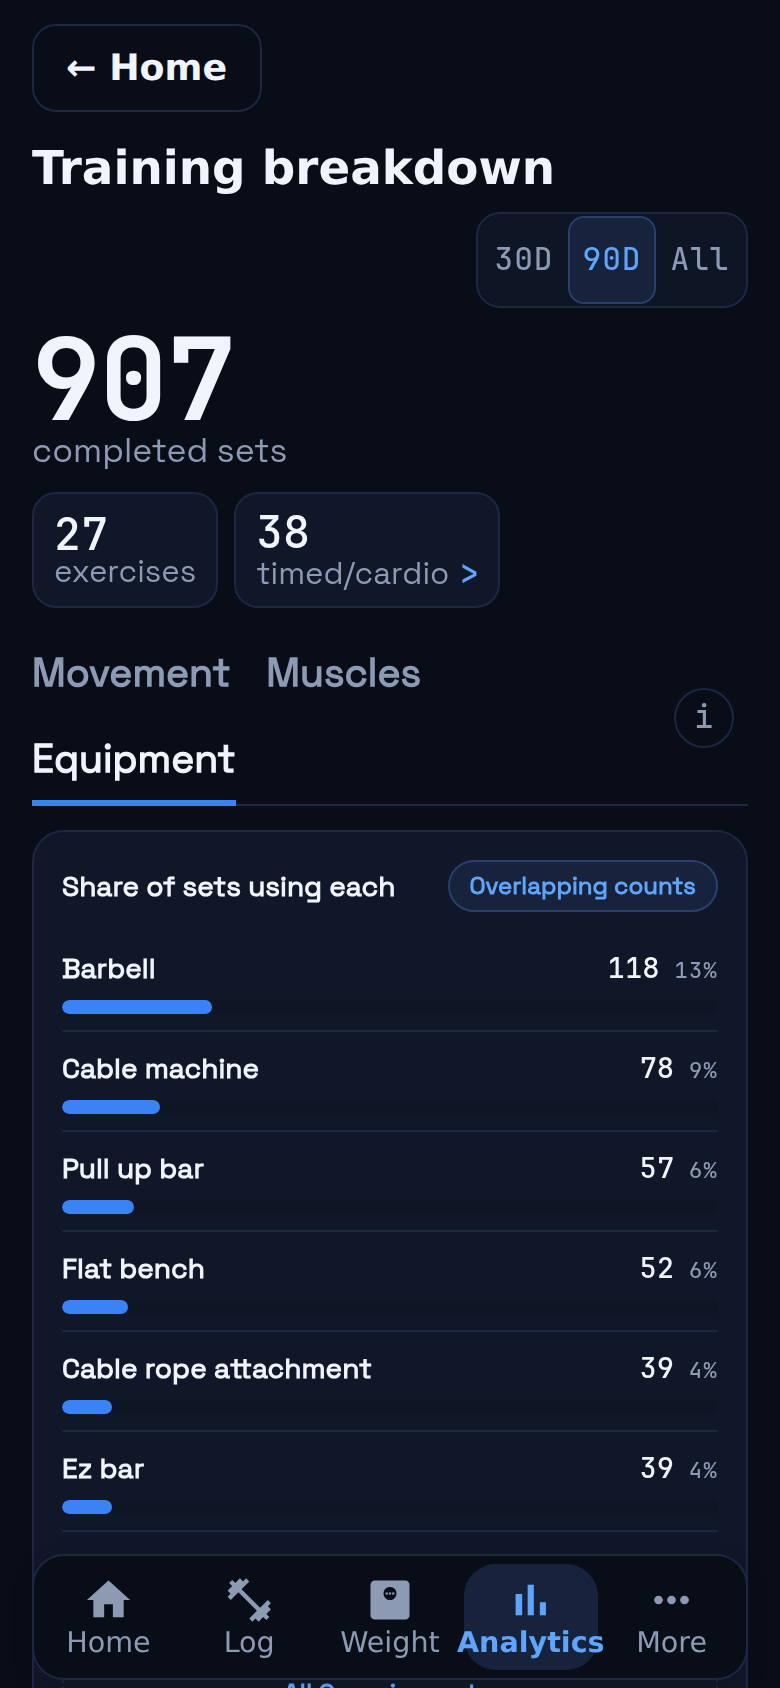
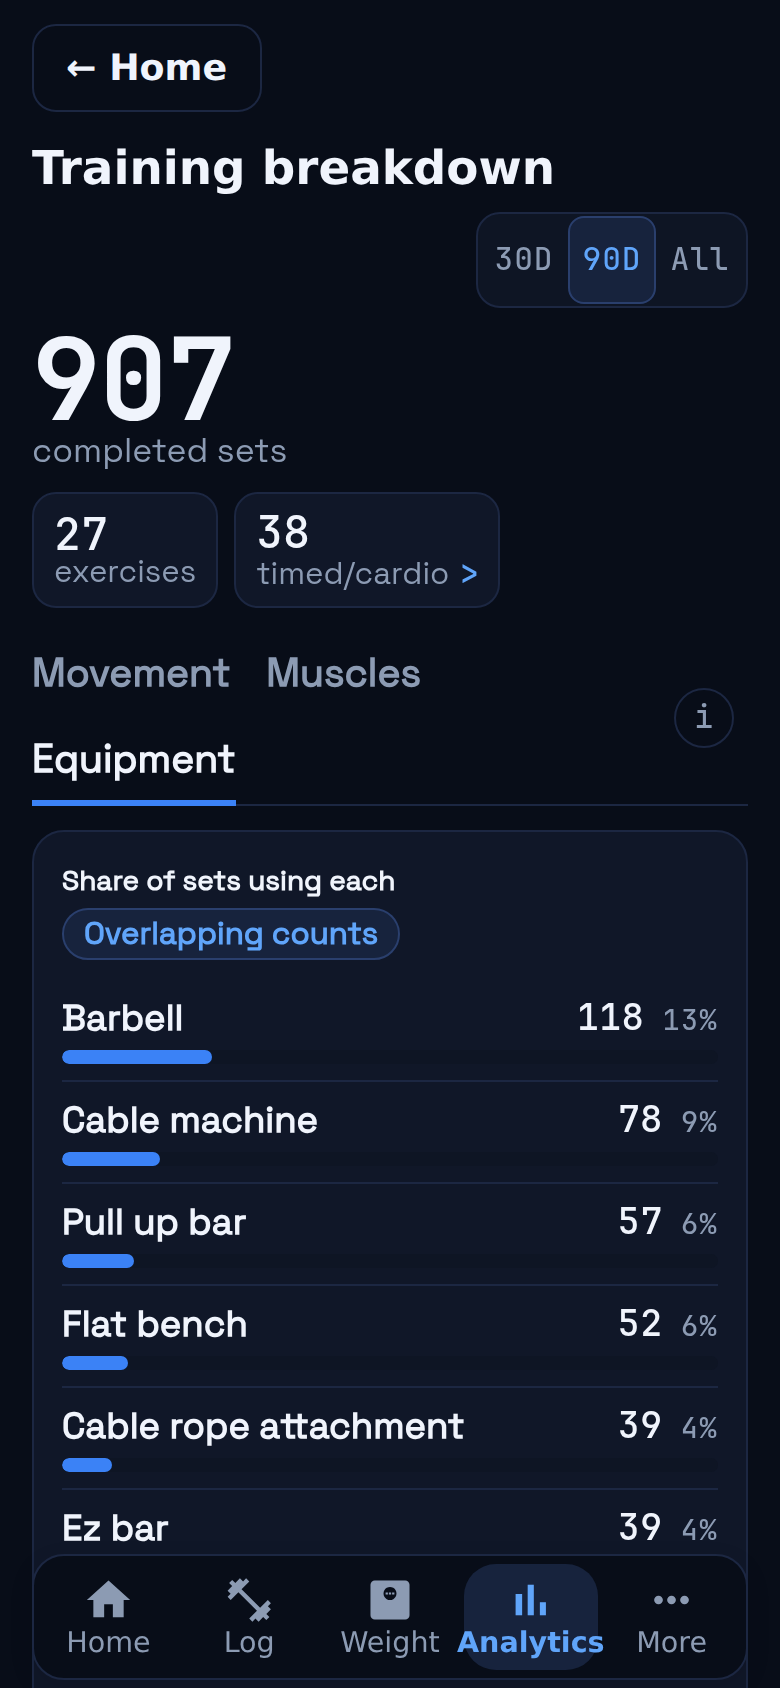
Scale large-text evidence after the target view mounts (#1593)

Changed region(s): [[0.0615, 0.4929, 0.6154, 0.9242], [0.6154, 0.5237, 0.9231, 0.9242], [0.3692, 0.9858, 0.4, 1.0]]

diff --git a/docs/evidence/1593-training-breakdown-polish/README.md b/docs/evidence/1593-training-breakdown-polish/README.md
@@ -22,7 +22,7 @@ node capture.cjs <dist> <before|after> [<playwright node_modules dir>] [<chromiu
 - **Default** (Equipment, All equipment, Muscles, Pecs, large text): reproduces the reported data exactly — 907 completed sets, Unknown equipment **519 / 57%**, Barbell 118 / 13%, Cable machine 78 / 9%; regions Chest 52, Back 162, Shoulders 130, Arms 96, Legs 275, Core 57.
 - **Unclassified-dominant** (All movement groups): default fixture plus two unrecognised exercises ("Mystery Sled Thing", "Odd Machine Move", 6 sets every 2 days) → 1447 sets, Unclassified **627 / 43%**, largest classified group Squat 104, saved-choice group "Pull ✎" 12. The sheet is scrolled to its Unclassified row.
 
-Every capture reported `overflowX: false` and no Training-breakdown button below 44×44.
+Large-text shots scale every text node after the target view/sheet has mounted (fixed after review; earlier captures scaled before the view switch). Every capture reported `overflowX: false` and no Training-breakdown button below 44×44.
 
 ## Checklist (written before coding, from the originals and approved reference)
 
@@ -63,8 +63,8 @@ Every capture reported `overflowX: false` and no Training-breakdown button below
 | pecs-region-hard-dark | [before](before/pecs-region-hard-dark.png) | [after](after/pecs-region-hard-dark.png) | PASS — region sheet title Chest, row reads Pecs. |
 | pecs-detail-hard-dark | [before](before/pecs-detail-hard-dark.png) | [after](after/pecs-detail-hard-dark.png) | PASS — muscle sheet title Pecs (before: Chest), back button present. |
 | pecs-back-hard-dark | [before](before/pecs-back-hard-dark.png) | [after](after/pecs-back-hard-dark.png) | PASS — back returns to the Chest region sheet. |
-| large-text-muscles-hard-dark | [before](before/large-text-muscles-hard-dark.png) | [after](after/large-text-muscles-hard-dark.png) | PASS — at 1.3× text "Most: Pecs" and region labels fit without clipping; no horizontal overflow. |
-| large-text-equipment-hard-dark | [before](before/large-text-equipment-hard-dark.png) | [after](after/large-text-equipment-hard-dark.png) | PASS — labels/counts fit; bars scaled to Barbell; Unknown capped. |
+| large-text-muscles-hard-dark | [before](before/large-text-muscles-hard-dark.png) | [after](after/large-text-muscles-hard-dark.png) | PASS — 1.3× text applied after the Muscles view mounts (card labels enlarged): "Most: Pecs", "Shoulders 130" and all region labels fit without clipping or wrapping changes vs before; no horizontal overflow. |
+| large-text-equipment-hard-dark | [before](before/large-text-equipment-hard-dark.png) | [after](after/large-text-equipment-hard-dark.png) | PASS — 1.3× text applied after the Equipment view mounts: row labels/counts enlarged and fit; Barbell full width, Cable machine ~66%; header pill wraps to its own line as before (unchanged from before capture). Unknown row is below the fold at this size. |
 
 Permitted differences vs the reference: theme-token colours (Kilo court palettes instead of the prototype hex), and sample data (the app fixture, not the prototype's). In light themes strips are dark (the surface ink), whereas the dark-only reference uses white; this is the same rule (one polarity per theme, from the palette's surface ink) applied to a light surface, where white strips would vanish on low-intensity tiles.
 
